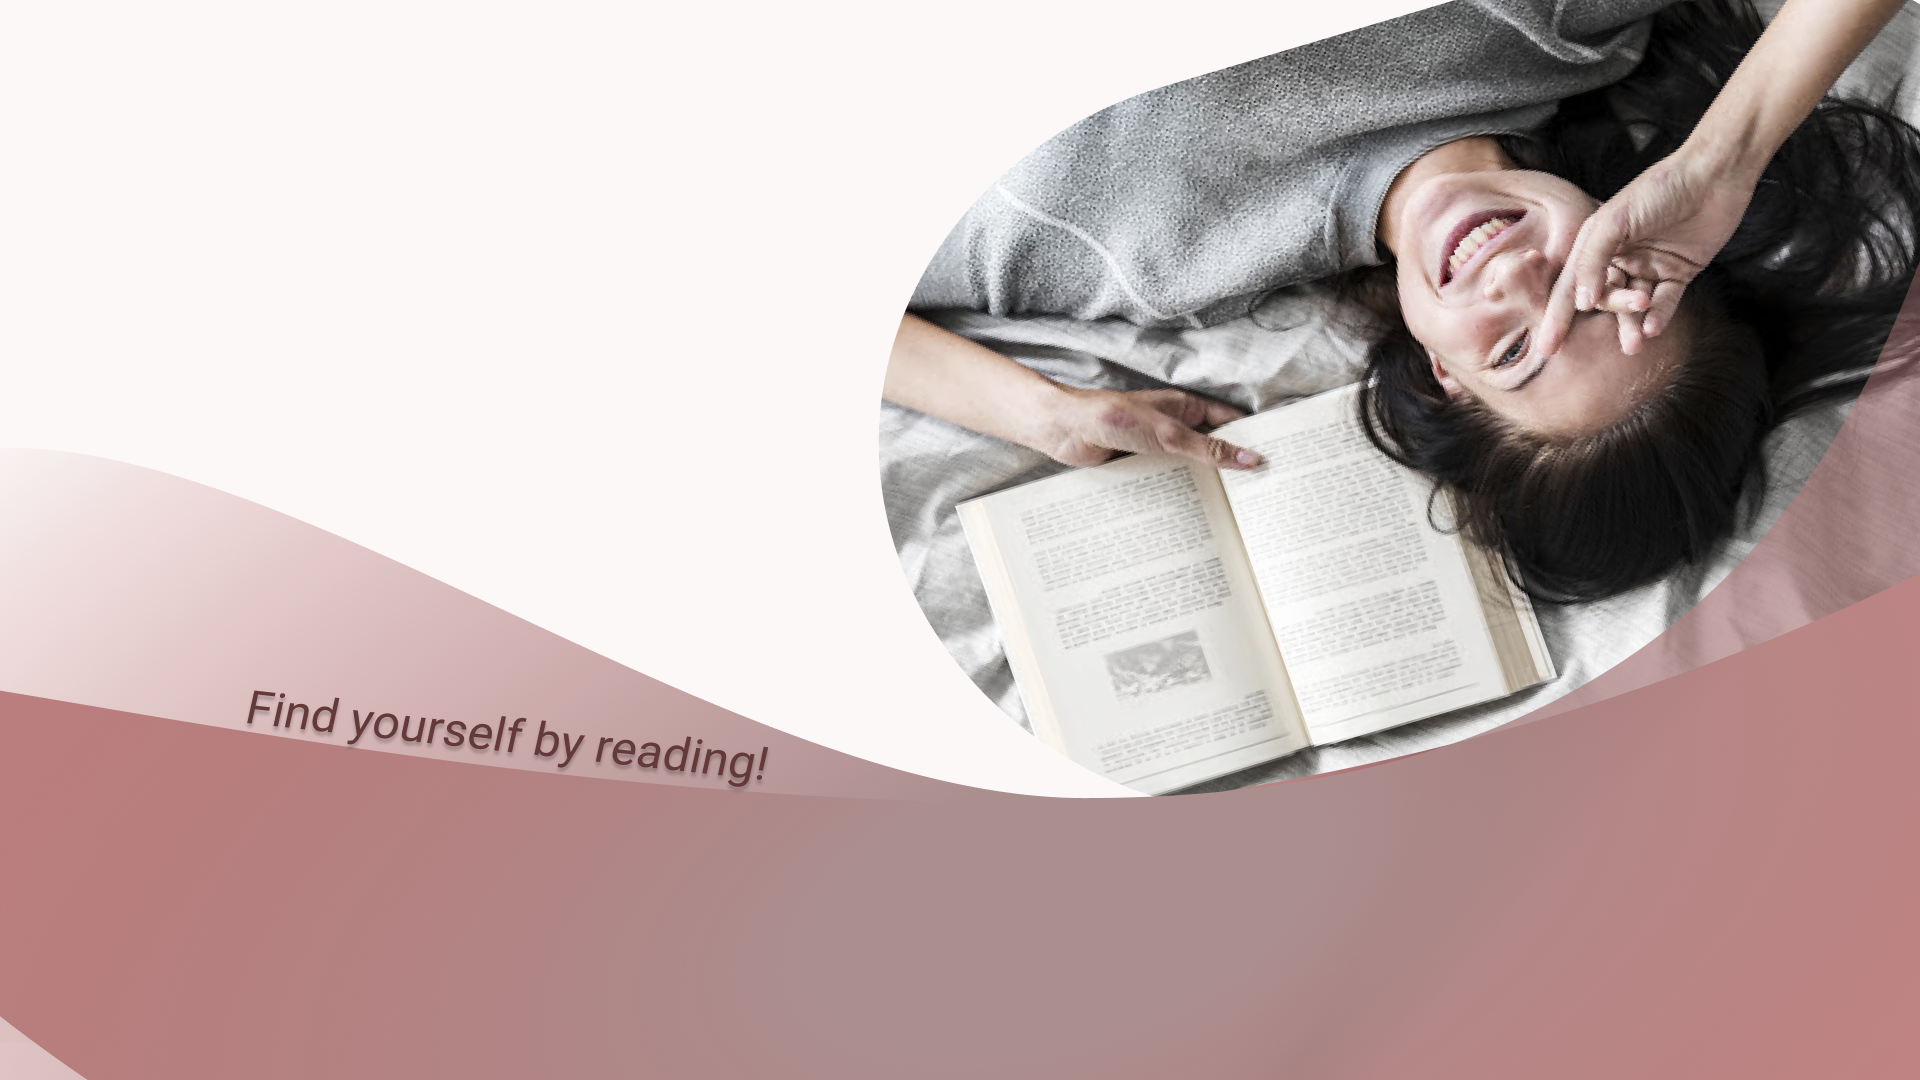
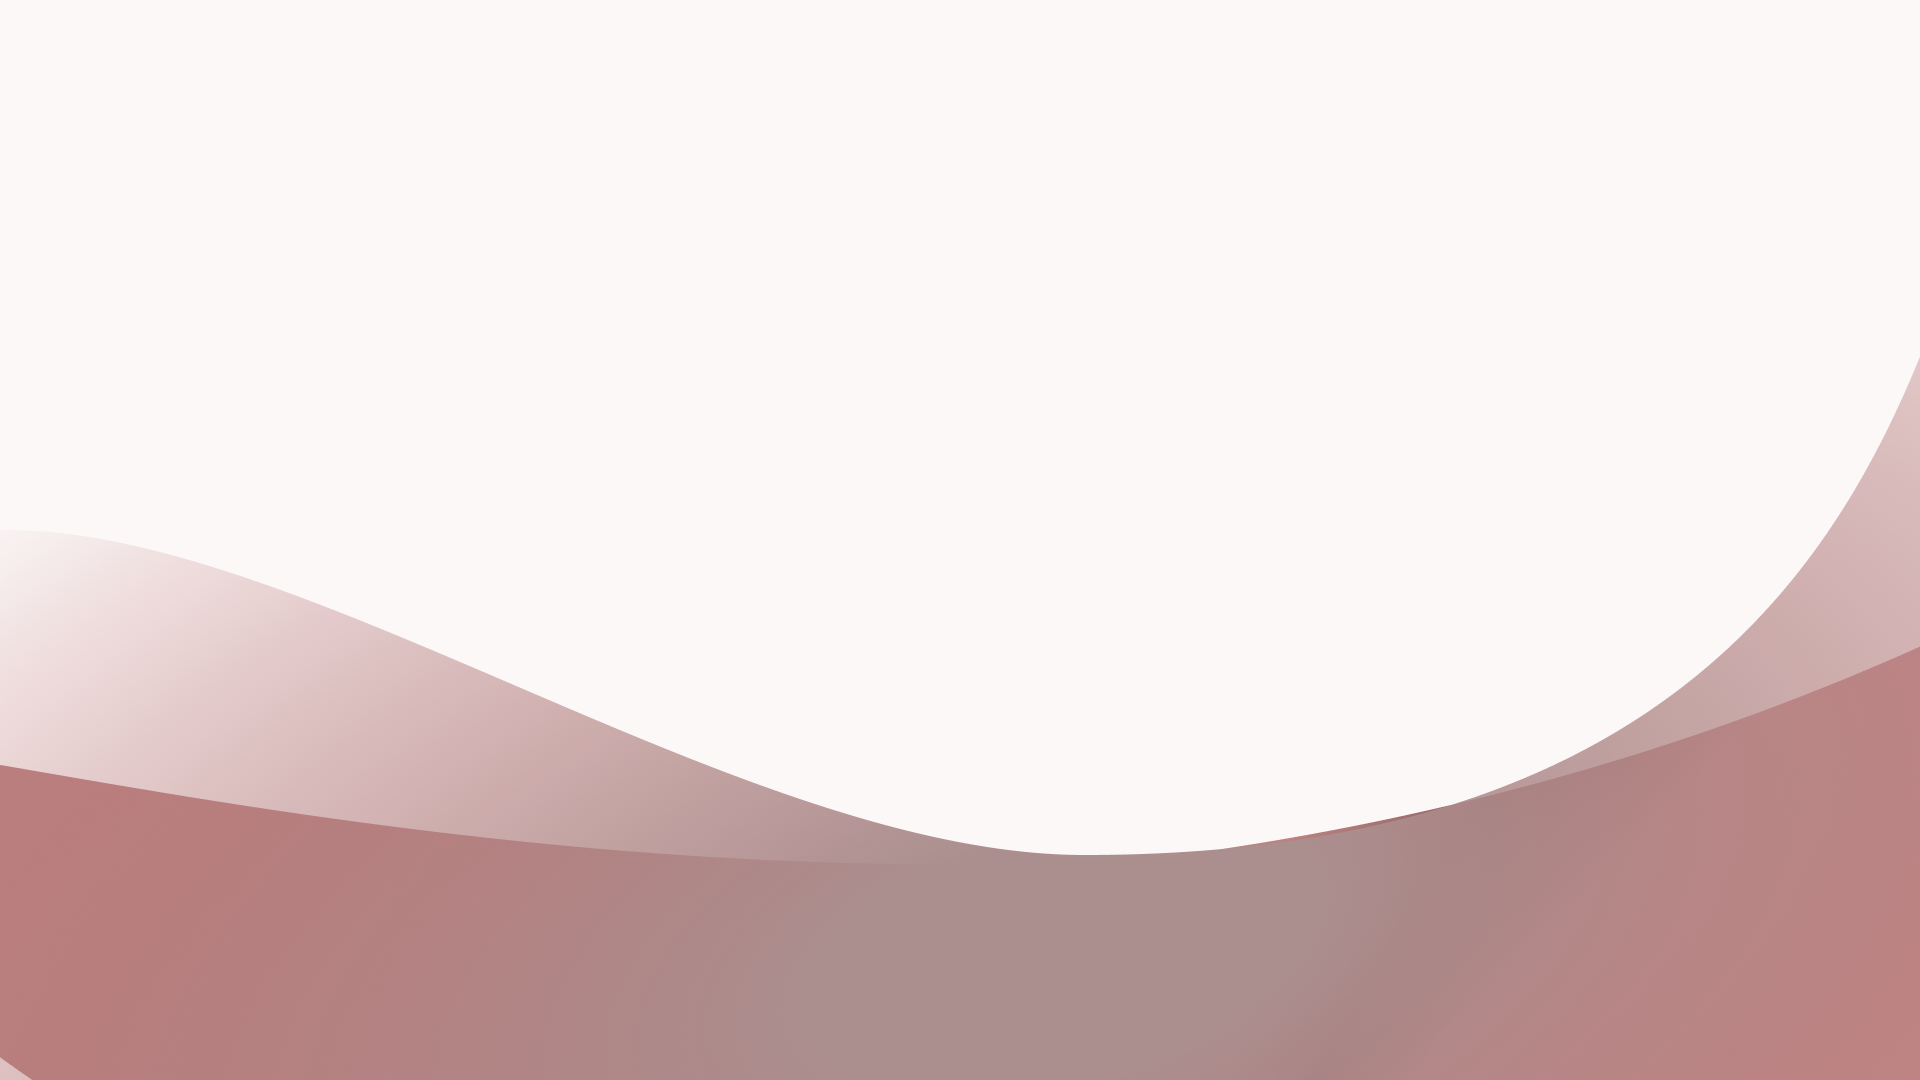
fix some bugs

diff --git a/client/src/styles/index.scss b/client/src/styles/index.scss
@@ -140,7 +140,10 @@ code {
   button {
     background-color: black;
   }
-  .price {
+  .price,
+  .author,
+  .category,
+  .name {
     font-weight: bold;
   }
 }
@@ -152,9 +155,10 @@ code {
 
     padding-top: 5px;
     .book-info-slide {
-      background-color: rgb(252, 248, 248);
+      background-color: #ab8f8f81;
+      border: 1px solid black;
+      color: black;
       width: 250px;
-      border-bottom-left-radius: 20px;
       margin-left: auto;
       margin-right: auto;
       .price {
@@ -164,6 +168,7 @@ code {
     .slider-inside {
       flex-direction: column;
       height: 400px;
+      margin: 0;
     }
     .slick-next {
       margin-right: 20px;
@@ -193,18 +198,11 @@ code {
 
 .home-page {
   height: 89.5vh;
-  background: url("../assets/Group1.png") no-repeat center center;
+  background: url("../assets/Background.png") no-repeat center center;
   -webkit-background-size: cover;
   -moz-background-size: cover;
   -o-background-size: cover;
   background-size: cover;
-  .girl {
-    width: 500px;
-    position: fixed;
-    right: -20px;
-    top: -20px;
-    z-index: 1;
-  }
 }
 .wrapper {
   margin-top: 25px;

diff --git a/client/src/styles/index.css b/client/src/styles/index.css
@@ -168,7 +168,10 @@ code {
   background-color: black;
 }
 
-.slider .price {
+.slider .price,
+.slider .author,
+.slider .category,
+.slider .name {
   font-weight: bold;
 }
 
@@ -179,9 +182,10 @@ code {
     padding-top: 5px;
   }
   .slider .book-info-slide {
-    background-color: #fcf8f8;
+    background-color: #ab8f8f81;
+    border: 1px solid black;
+    color: black;
     width: 250px;
-    border-bottom-left-radius: 20px;
     margin-left: auto;
     margin-right: auto;
   }
@@ -194,6 +198,7 @@ code {
         -ms-flex-direction: column;
             flex-direction: column;
     height: 400px;
+    margin: 0;
   }
   .slider .slick-next {
     margin-right: 20px;
@@ -221,16 +226,8 @@ code {
 
 .home-page {
   height: 89.5vh;
-  background: url("../assets/Group1.png") no-repeat center center;
+  background: url("../assets/Background.png") no-repeat center center;
   background-size: cover;
-}
-
-.home-page .girl {
-  width: 500px;
-  position: fixed;
-  right: -20px;
-  top: -20px;
-  z-index: 1;
 }
 
 .wrapper {

diff --git a/client/src/components/Home.js b/client/src/components/Home.js
@@ -1,6 +1,5 @@
 import React from "react";
 import Slider from "./Slider";
-import girl from "../assets/girl.png";
 
 function Home() {
   return (
